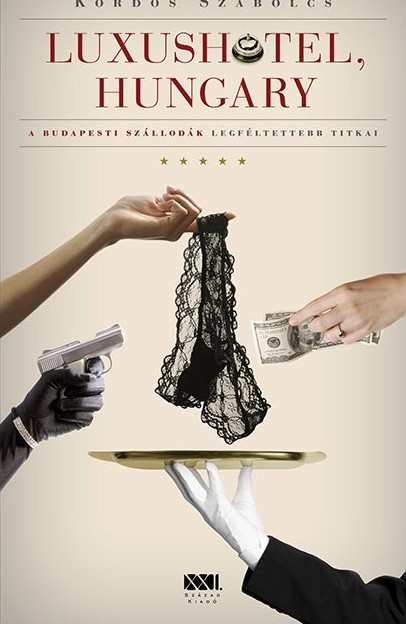
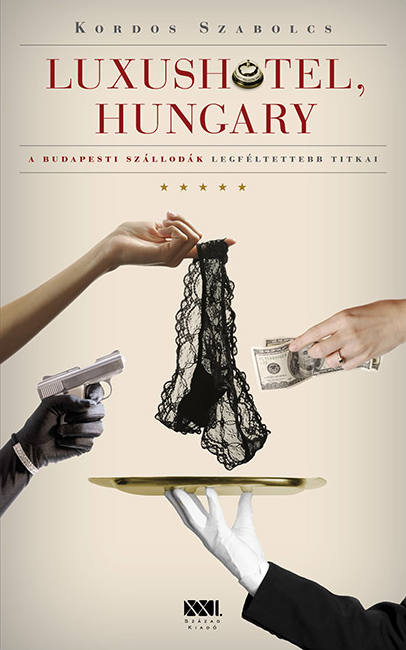
Widen title-to-image gap to match header whitespace; fix luxushotel crop
The header's 34px bottom padding is part of the visible header-to-title
gap (104px total), so bump gallery-head bottom margin 70->104px to match.
Replace the badly auto-cropped luxushotel cover with the correct version.

diff --git a/book-covers.html b/book-covers.html
@@ -45,7 +45,7 @@
 <figure class="card"><a href="images/book-covers/lakatosloveclub.jpg" data-idx="17" data-caption=""><img class="tall" src="images/book-covers/lakatosloveclub.jpg" alt="Book covers" width="344" height="550" loading="lazy"></a></figure>
 <figure class="card"><a href="images/book-covers/toth-gabor-akos-edesvizi-mediterran-kicsi.jpg" data-idx="18" data-caption=""><img class="tall" src="images/book-covers/toth-gabor-akos-edesvizi-mediterran-kicsi.jpg" alt="Book covers" width="408" height="653" loading="lazy"></a></figure>
 <figure class="card"><a href="images/book-covers/papp-diana-szerdan-habcsok-05.jpg" data-idx="19" data-caption=""><img class="tall" src="images/book-covers/papp-diana-szerdan-habcsok-05.jpg" alt="Book covers" width="407" height="652" loading="lazy"></a></figure>
-<figure class="card"><a href="images/book-covers/luxushotel-hungary.jpg" data-idx="20" data-caption=""><img class="tall" src="images/book-covers/luxushotel-hungary.jpg" alt="Book covers" width="406" height="624" loading="lazy"></a></figure>
+<figure class="card"><a href="images/book-covers/luxushotel-hungary.jpg" data-idx="20" data-caption=""><img class="tall" src="images/book-covers/luxushotel-hungary.jpg" alt="Book covers" width="406" height="650" loading="lazy"></a></figure>
 <figure class="card"><a href="images/book-covers/eva-lanyom-300dpi.jpg" data-idx="21" data-caption=""><img class="tall" src="images/book-covers/eva-lanyom-300dpi.jpg" alt="Book covers" width="448" height="652" loading="lazy"></a></figure>
 <figure class="card"><a href="images/book-covers/egyetemista-lany-b.jpg" data-idx="22" data-caption=""><img class="tall" src="images/book-covers/egyetemista-lany-b.jpg" alt="Book covers" width="357" height="550" loading="lazy"></a></figure>
 </div>

diff --git a/css/style.css b/css/style.css
@@ -86,7 +86,7 @@ main {
 .signature figcaption { color: var(--dim); font-size: 14px; margin-top: 10px; }
 
 /* gallery */
-.gallery-head { margin: 30px 0 70px; }
+.gallery-head { margin: 30px 0 104px; }
 .gallery-head h1 { font-size: clamp(26px, 3.6vw, 38px); font-weight: 800; letter-spacing: -0.8px; }
 .gallery-head .sub { font-size: 17px; margin-top: 8px; }
 
